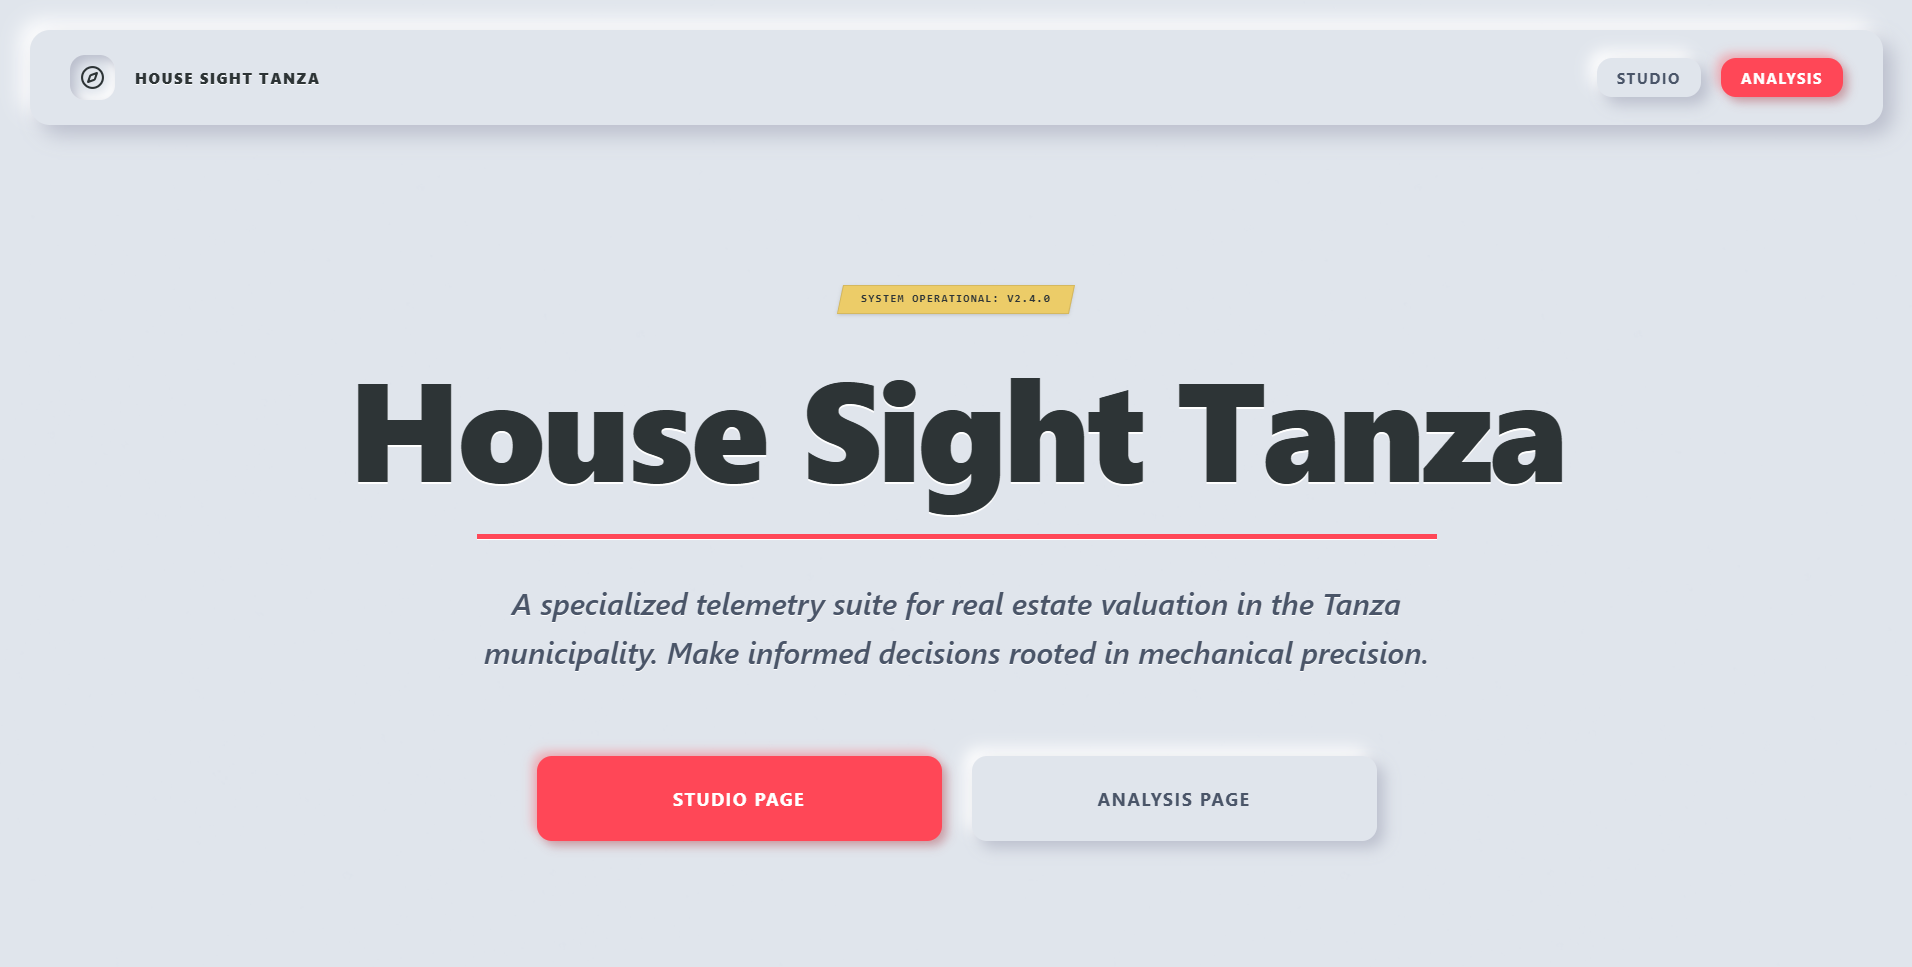
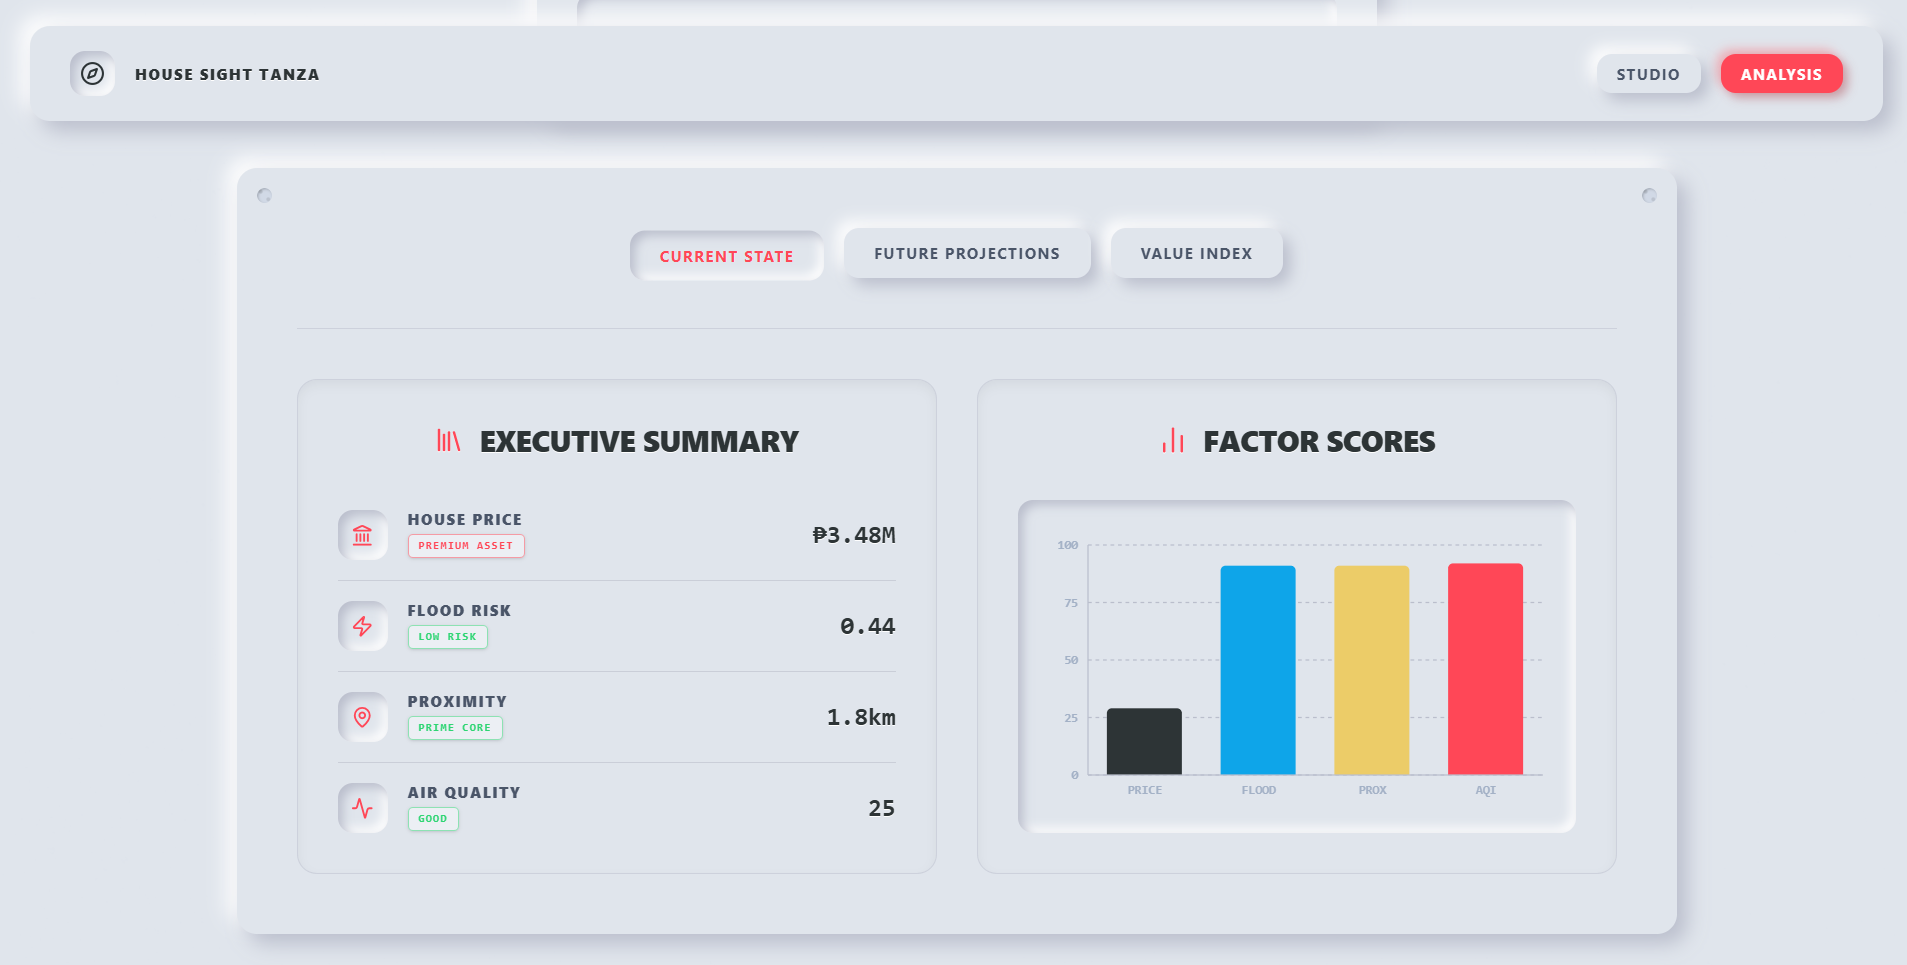
Minor fix

diff --git a/src/components/Hero.jsx b/src/components/Hero.jsx
@@ -1,8 +1,8 @@
 // src/components/Hero.jsx
 import { useRef } from 'react';
-import gsap from 'gsap';
-import { ScrollTrigger } from 'gsap/ScrollTrigger';
-import { useGSAP } from '@gsap/react';
+import gsap from 'https://esm.sh/gsap';
+import { ScrollTrigger } from 'https://esm.sh/gsap/ScrollTrigger';
+import { useGSAP } from 'https://esm.sh/@gsap/react';
 
 gsap.registerPlugin(ScrollTrigger, useGSAP);
 
@@ -50,50 +50,15 @@ export default function Hero() {
       {/* --- THE SPLIT LAYOUT (Scales as one unit on scroll) --- */}
       <div ref={posterRef} className="relative z-20 w-full flex flex-col md:flex-row items-center justify-between origin-center gap-12 md:gap-8">
         
-        {/* LEFT COLUMN: The Image & Spinning Badge */}
-        <div className="w-full md:w-1/2 flex justify-center relative">
-          
-          {/* Main Image Container */}
-          <div className="w-72 h-72 md:w-[32rem] md:h-[32rem] rounded-full overflow-hidden border-2 border-zinc-800 bg-zinc-900 shadow-[0_0_50px_rgba(0,0,0,0.5)] relative group z-10">
-            <img 
-              src="/me.jpg" 
-              alt="Raizel Velasquez Profile" 
-              className="w-full h-full object-cover object-center grayscale group-hover:grayscale-0 transition-all duration-700"
-            />
-          </div>
-
-          {/* Increased container to w-40 h-40 */}
-          <div className="absolute -bottom-4 -left-4 md:bottom-4 md:left-4 z-20 w-35 h-35 flex items-center justify-center">
-            <div className="absolute w-full h-full animate-[spin_10s_linear_infinite]">
-              {/* Expanded viewBox to 120x120 to give the SVG more breathing room */}
-              <svg viewBox="0 0 120 120" className="w-full h-full overflow-visible">
-                {/* Expanded the math to create a wider radius (50 instead of 40) */}
-                <path id="circlePath" d="M 60, 60 m -50, 0 a 50,50 0 1,1 100,0 a 50,50 0 1,1 -100,0" fill="transparent" />
-                {/* Adjusted text size and spacing so it perfectly connects without overlapping */}
-                <text className="text-[13.5px] font-mono font-bold fill-white uppercase tracking-[0.12em]">
-                  <textPath href="#circlePath" startOffset="0%">
-                    Web Developer • AI Automation •
-                  </textPath>
-                </text>
-              </svg>
-            </div>
-            {/* Scaled the inner dark circle up to w-20 h-20 to match the new outer size */}
-            <div className="absolute w-20 h-20 bg-[#0a0a0a] rounded-full border border-zinc-700 flex items-center justify-center text-xs font-bold text-[#FF0033] uppercase shadow-[0_0_20px_rgba(255,0,51,0.2)]">
-              Hire Me
-            </div>
-          </div>
-        </div>
-
-        {/* RIGHT COLUMN: Typography & Call to Actions */}
+        {/* LEFT COLUMN: Typography & Call to Actions */}
         <div className="w-full md:w-1/2 flex flex-col items-start text-left z-20">
           
-          <h2 className="text-[#FF0033] font-mono text-sm md:text-base tracking-widest uppercase mb-4 font-bold">
-            John Mar Fulton // Bachelor of Science in Computer Science
-          </h2>
-          
-          <h1 className="text-4xl md:text-6xl lg:text-7xl font-black text-white leading-[1.1] mb-6 tracking-tighter">
-            SOFTWARE ENGINEER <br/>
-            PROMPT ENGINEER <br/>
+          {/* Big Name & Degree replacing the old text */}
+          <h1 className="text-4xl md:text-5xl lg:text-[4rem] font-black text-white leading-[1.1] mb-8 tracking-tighter uppercase">
+            John Mar Fulton <br/>
+            <span className="text-[#FF0033] text-2xl md:text-4xl lg:text-5xl tracking-tight">
+              // Bachelor of Science in Computer Science
+            </span>
           </h1>
           
           <p className="text-zinc-400 text-base md:text-lg leading-relaxed max-w-lg mb-10 font-sans text-justify">
@@ -117,7 +82,41 @@ export default function Hero() {
               Contact
             </a>
           </div>
+        </div>
 
+        {/* RIGHT COLUMN: The Image & Spinning Badge */}
+        <div className="w-full md:w-1/2 flex justify-center md:justify-end relative">
+          
+          {/* Inner wrapper to anchor the badge perfectly to the portrait image */}
+          <div className="relative">
+            
+            {/* 3:4 Portrait Image Container */}
+            <div className="w-64 md:w-[22rem] lg:w-[26rem] aspect-[3/4] rounded-2xl overflow-hidden border-2 border-zinc-800 bg-zinc-900 shadow-[0_0_50px_rgba(0,0,0,0.5)] relative group z-10">
+              <img 
+                src="/me.jpg" 
+                alt="John Mar Fulton Profile" 
+                className="w-full h-full object-cover object-center grayscale group-hover:grayscale-0 transition-all duration-700"
+              />
+            </div>
+
+            {/* Spinning "Hire Me" Badge (Positioned at bottom-left of the portrait) */}
+            <div className="absolute -bottom-10 -left-10 z-20 w-40 h-40 flex items-center justify-center">
+              <div className="absolute w-full h-full animate-[spin_10s_linear_infinite]">
+                <svg viewBox="0 0 120 120" className="w-full h-full overflow-visible">
+                  <path id="circlePath" d="M 60, 60 m -50, 0 a 50,50 0 1,1 100,0 a 50,50 0 1,1 -100,0" fill="transparent" />
+                  <text className="text-[13.5px] font-mono font-bold fill-white uppercase tracking-[0.12em]">
+                    <textPath href="#circlePath" startOffset="0%">
+                      Web Developer • AI Automation •
+                    </textPath>
+                  </text>
+                </svg>
+              </div>
+              <div className="absolute w-20 h-20 bg-[#0a0a0a] rounded-full border border-zinc-700 flex items-center justify-center text-xs font-bold text-[#FF0033] uppercase shadow-[0_0_20px_rgba(255,0,51,0.2)]">
+                Hire Me
+              </div>
+            </div>
+            
+          </div>
         </div>
 
       </div>

diff --git a/src/components/VisualGallery.jsx b/src/components/VisualGallery.jsx
@@ -15,7 +15,8 @@ export default function VisualGallery() {
     { title: "SIGNATURA", category: "E-Commerce Archive" },
     { title: "HOUSE SIGHT TANZA", category: "Telemetry & Map Render" },
     { title: "LUMINARYX", category: "Creative System" },
-    { title: "CONTINUUM", category: "AI Command Center" }
+    { title: "CONTINUUM", category: "AI Command Center" },
+    { title: "FERROHEART", category: "Dating Surprise" }
   ];
 
   useGSAP(() => {